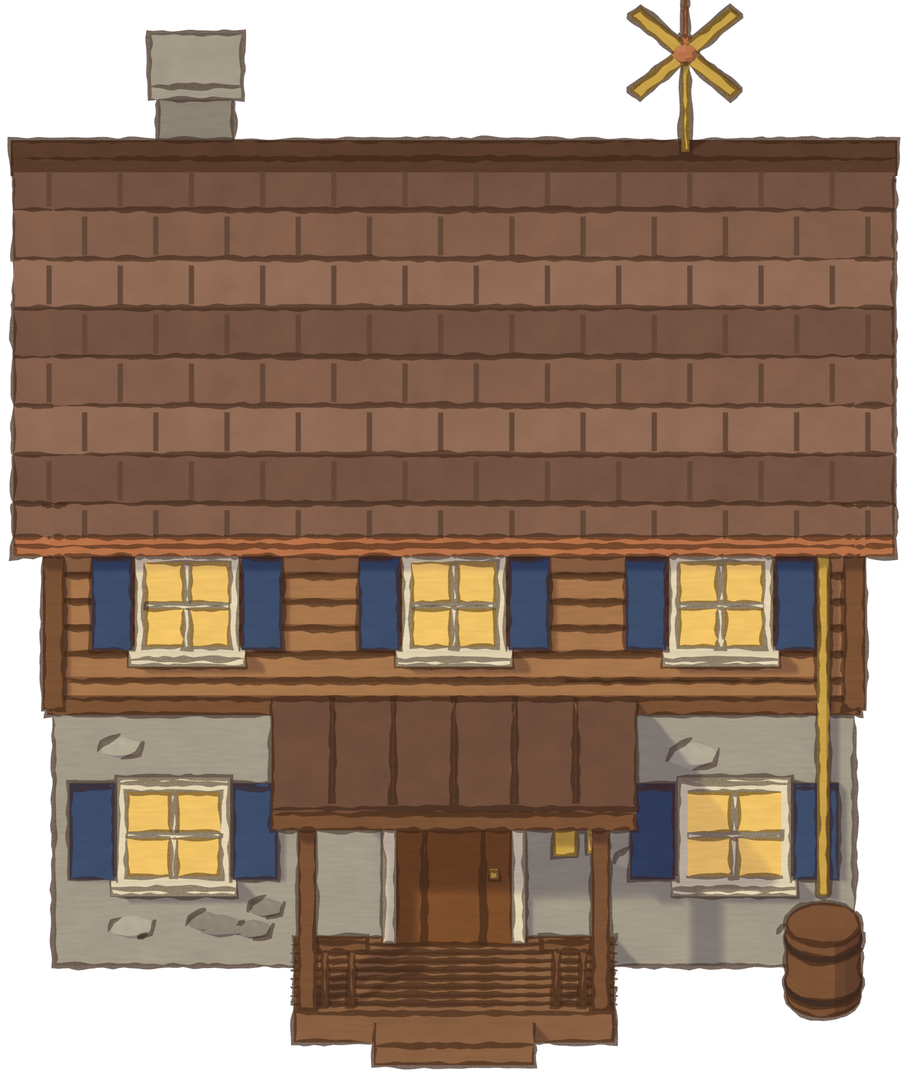
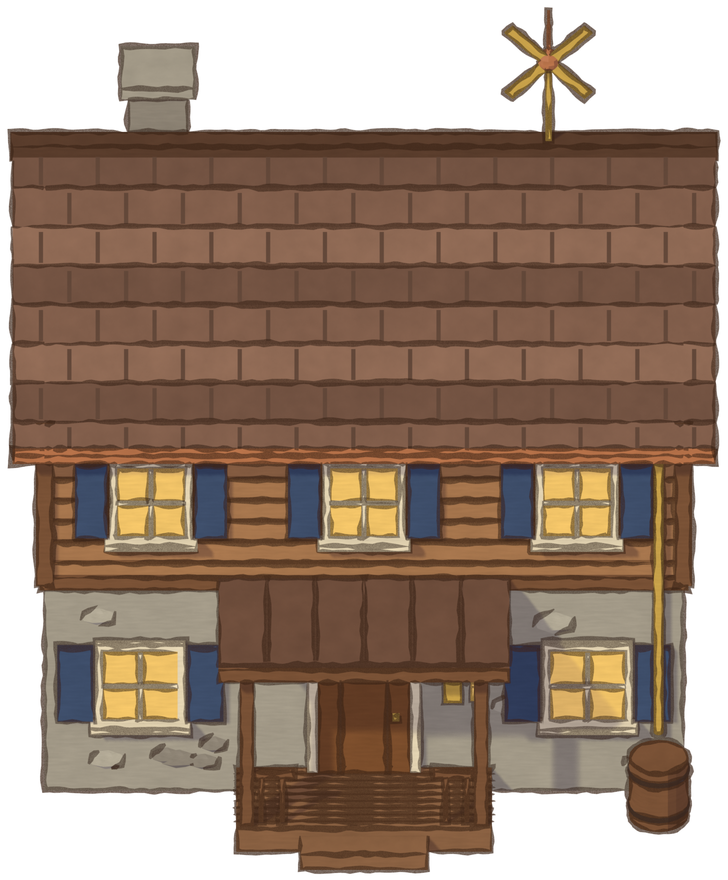
Shrink farm buildings to 80% scale per user feedback
Claude-Session: https://claude.ai/code/session_01BTTj8a1B5QVYLgtfGJQMDk

Changed region(s): [[0.0, 0.0, 0.9973, 1.0], [0.7253, 0.8898, 0.7555, 0.9205], [0.0604, 0.8591, 0.0907, 0.8898]]

diff --git a/art/buildings/README.md b/art/buildings/README.md
@@ -6,7 +6,7 @@ Re-run a script in Blender's Text Editor to rebuild a building after changing it
 
 - Look (softer, painterly pass): eased shadow/highlight transitions, subtle blotchy and brush-streak colour variation, soft corner darkening (AO), hand-drawn tapered and wobbly warm-brown outline (Freestyle), sun from the upper left. Roof shingle breaks are colour only, with no ink line.
 - Rendered at 2x and downscaled with Lanczos for soft edges.
-- Camera: orthographic, 30° above the horizon, front-on, at 89 px per metre. That matches Arthur's art scale (133 px ≈ 1.5 m), so these sprites use the same in-game scale as he does.
-- farm_cottage.png: 720x760. Eave ≈ 2.4× hero height; door ≈ 1.4× hero height.
-- farmhouse.png: 908x1076. Eave ≈ 3.6× hero height; door ≈ 1.4× hero height.
+- Camera: orthographic, 30° above the horizon, front-on, at 71 px per metre (80% of Arthur's literal scale, because the user found 89 px/m too big next to him). The sprites use the same in-game scale as Arthur.
+- farm_cottage.png: 580x610. Eave ≈ 1.9× hero height; door ≈ 1.1× hero height.
+- farmhouse.png: 728x880. Eave ≈ 2.9× hero height; door ≈ 1.1× hero height.
 - Scale check next to Arthur: docs/art/buildings_scale_check.png
